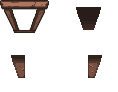
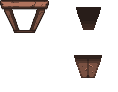
스테이지의 몬스터를 모두 처치해야 문이 열리도록 구현

Changed region(s): [[0.6102, 0.587, 0.7627, 0.8478], [0.0763, 0.587, 0.2288, 0.8478]]

diff --git a/stage_2.py b/stage_2.py
@@ -13,6 +13,9 @@ class Stage_2:
         self.rocks = []
         self.poos = []
 
+        self.is_cleared = False
+
+
         self.manual_rock_positions = [
             (300, 380), (300, 460), (300, 540),  # 왼쪽 벽
             (700, 380), (700, 460), (700, 540),  # 오른쪽 벽
@@ -26,17 +29,23 @@ class Stage_2:
         # ==========================================
 
     def get_map_bounds(self):
-        return {
+        # 기본 맵 경계
+        bounds = {
             'map_left': 100,
             'map_right': 875,
             'map_bottom': 175,
             'map_top': 700,
-            'notches': [
-                {'x': 490, 'y': 700, 'w': 50, 'h': 50},
-                {'x': 490, 'y': 175, 'w': 50, 'h': 50},
-            ]
+            'notches': []  # 기본은 닫힘
         }
 
+        # 클리어 되었을 때만 노치(문 통로)를 개방
+        if self.is_cleared:
+            bounds['notches'] = [
+                {'x': 490, 'y': 700, 'w': 50, 'h': 50},  # 위쪽 문
+                {'x': 490, 'y': 175, 'w': 50, 'h': 50},  # 아래쪽 문
+            ]
+
+        return bounds
     def update(self):
         pass
 
@@ -46,11 +55,19 @@ class Stage_2:
         self.image.composite_draw(0, 'v', 250, 200, 500, 400)
         self.image.composite_draw(0, 'hv', 750, 200, 500, 400)
 
-        # 문 그리기
-        self.image2.clip_composite_draw(0, 40, 50, 52, 0, 'v', 500, 120, 120, 120)
-        self.image2.clip_composite_draw(50, 40, 50, 52, 0, 'v', 465, 120, 130, 120)
-        self.image2.clip_draw(0, 40, 50, 52, 500, 680, 120, 120)
-        self.image2.clip_draw(50, 40, 50, 52, 465, 680, 130, 120)
+
+        if self.is_cleared:
+            # 열린 문
+            self.image2.clip_composite_draw(0, 40, 50, 52, 0, 'v', 500, 120, 120, 120)
+            self.image2.clip_composite_draw(50, 40, 50, 52, 0, 'v', 465, 120, 130, 120)
+            self.image2.clip_draw(0, 40, 50, 52, 500, 680, 120, 120)
+            self.image2.clip_draw(50, 40, 50, 52, 465, 680, 130, 120)
+
+        else:
+            self.image2.clip_composite_draw(0, 40, 50, 52, 0, 'v', 500, 120, 120, 120)
+            self.image2.clip_composite_draw(50, 0, 50, 52, 0, 'v', 465, 100, 130, 120)
+            self.image2.clip_draw(0, 40, 50, 52, 500, 680, 120, 120)
+            self.image2.clip_draw(50, 0, 50, 52, 465, 700, 130, 120)
 
     def ensure_obstacles(self):
         # 1. 객체 생성 (아직 리스트가 비어있다면)

diff --git a/stage_3.py b/stage_3.py
@@ -22,17 +22,24 @@ class Stage_3:
         self.rocks = []
         self.poos = []
 
+        self.is_cleared = False
+
     def get_map_bounds(self):
-        return {
+        bounds = {
             'map_left': 100,
             'map_right': 1475,
             'map_bottom': 175,
             'map_top': 700,
-            'notches': [
-                {'x': 1475, 'y': 400, 'w': 50, 'h': 70},
-                {'x': 490, 'y': 175, 'w': 50, 'h': 50},
-            ]
+            'notches': []
         }
+
+        #클리어 시에만 노치 개방
+        if self.is_cleared:
+            bounds['notches'] = [
+                {'x': 1475, 'y': 400, 'w': 50, 'h': 70},  # 오른쪽 문
+                {'x': 490, 'y': 175, 'w': 50, 'h': 50},  # 아래쪽 문
+            ]
+        return bounds
 
     def update(self):
         pass
@@ -58,11 +65,15 @@ class Stage_3:
             door_world_x = 500
             door_world_y = 120
             dx, dy = game_world.world_to_screen(door_world_x, door_world_y)
-            self.image2.clip_composite_draw(0, 40, 50, 52, 0, 'v', dx, dy, 120, 120)
-
-            dx2, dy2 = game_world.world_to_screen(465, 120)
-            self.image2.clip_composite_draw(50, 40, 50, 52, 0, 'v', dx2, dy2, 130, 120)
-
+            if self.is_cleared:
+                # 열린 문 (기존 코드)
+                self.image2.clip_composite_draw(0, 40, 50, 52, 0, 'v', dx, dy, 120, 120)
+                dx2, dy2 = game_world.world_to_screen(465, 120)
+                self.image2.clip_composite_draw(50, 40, 50, 52, 0, 'v', dx2, dy2, 130, 120)
+            else:
+                self.image2.clip_composite_draw(0, 40, 50, 52, 0, 'v', dx, dy, 120, 120)
+                dx2, dy2 = game_world.world_to_screen(465, 100)
+                self.image2.clip_composite_draw(50, 0, 50, 52, 0, 'v', dx2, dy2, 130, 120)
     def ensure_obstacles(self):
         if not self.rocks:
             self._create_rocks_and_poos(initial=(len(self.poos) == 0))

diff --git a/play_mode.py b/play_mode.py
@@ -72,6 +72,24 @@ def update():
         return
 
     game_world.update()
+    if stage_index == 2:
+        # Host가 모두 죽으면 클리어
+        alive_host = [h for h in host if h.hp > 0]
+        if len(alive_host) == 0:
+            stage.is_cleared = True
+        else:
+            stage.is_cleared = False
+    elif stage_index == 3:
+        # Sucker와 Charger가 모두 죽으면 클리어
+        alive_sucker = [s for s in sucker if s.hp > 0]
+        alive_charger = [c for c in chargers if c.hp > 0]
+        if len(alive_sucker) == 0 and len(alive_charger) == 0:
+            stage.is_cleared = True
+        else:
+            stage.is_cleared = False
+    elif stage_index == 1:
+        # 스테이지 1은 몬스터가 없으므로 항상 클리어
+        stage.is_cleared = True
 
     bounds = stage.get_map_bounds()
     common.isaac.apply_map_bounds(bounds)
